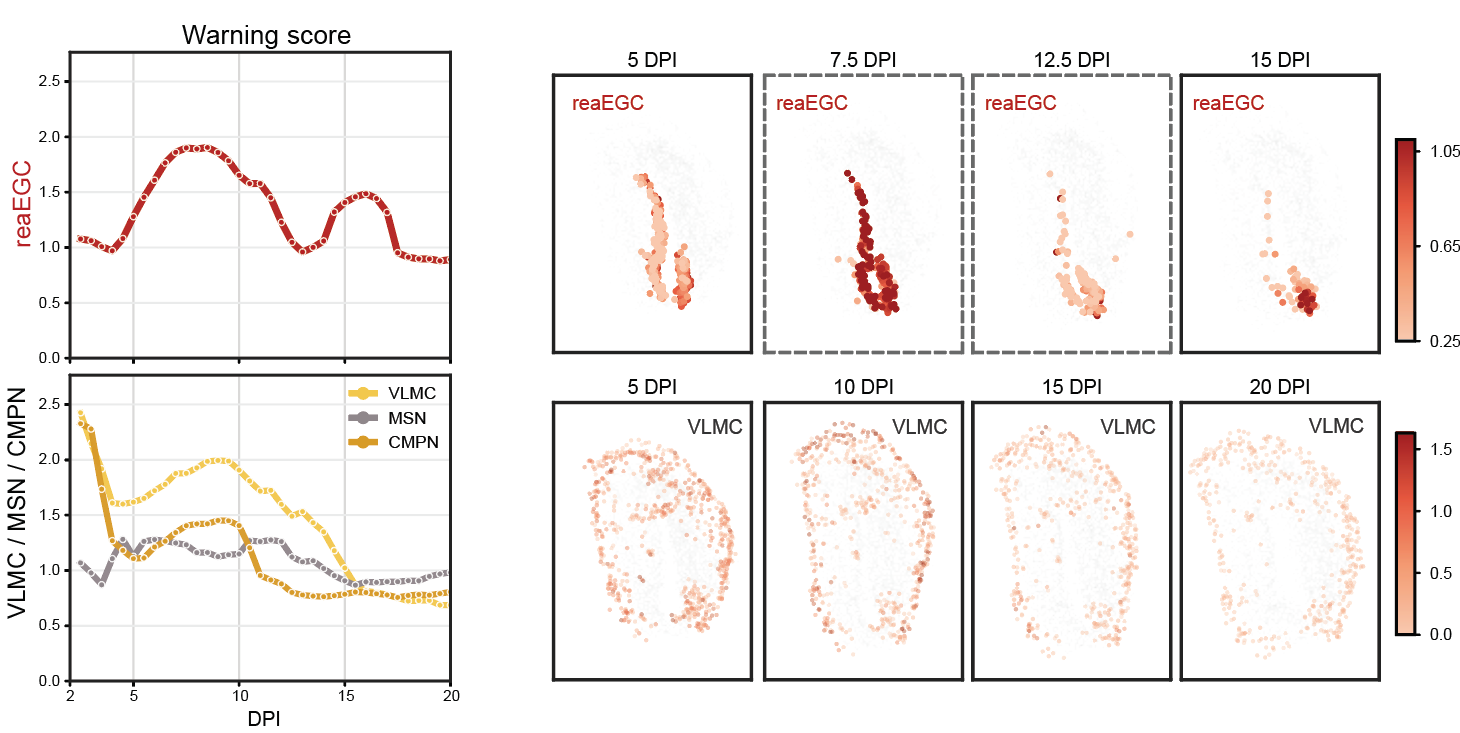
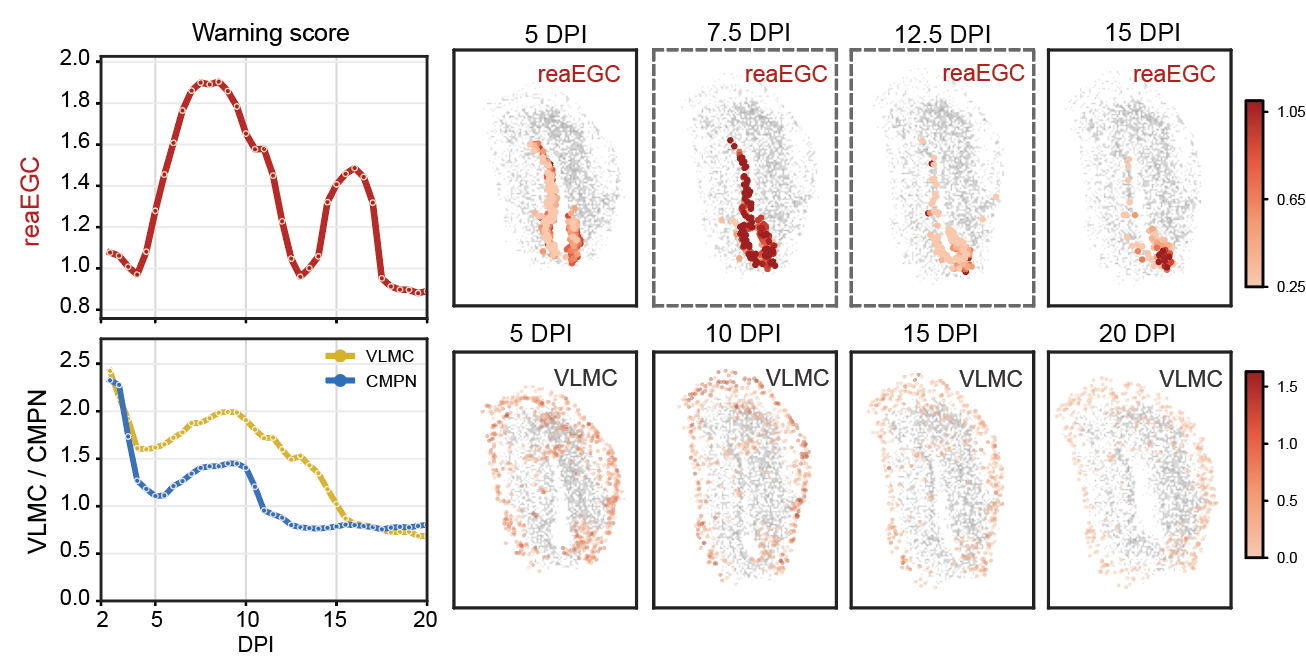
Update figure legends and figure 5 preview

Changed region(s): [[0.0, 0.0301, 1.0, 0.9925]]

diff --git a/figure-config.js b/figure-config.js
@@ -21,7 +21,7 @@ window.SpaPOT_FIGURES = {
     body:
       "The graphical abstract introduces the core problem, model structure, major outputs, and biological interpretation in a single opening visual.",
     legend:
-      "SpaPOT model overview. Staged spatial transcriptomic slices are represented by tissue coordinates, graph-informed gene-latent states and time labels. SpaPOT fits a spatial-potential transport model in which ds/dt describes spatial advection, dz/dt describes potential-driven latent-state motion and d log w/dt describes source-sink mass change. The same fitted fields are used to generate continuous reconstructions, inspect spatial velocity and growth, compute interval-level critical-window scores and perform model-derived in silico perturbation analysis.",
+      "SpaPOT graphical abstract and model overview. a, Discrete spatial transcriptomic snapshots are connected as a continuous tissue trajectory; observed slices and generated snapshots are separated in the schematic, and the dynamic paths highlight a candidate transition point. b, Training framework for SpaPOT: spatial coordinates, graph-prior gene embeddings and time labels feed the spatial-potential transport equation, which learns spatial velocity, gene-latent potential, growth or decay, and an optimization objective combining matching, spatial, physical and dynamic losses. c, Downstream analyses and applications, including generated spatial slices, lineage inference, critical-point warning, and perturbed gene-program interpretation.",
     preview: "assets/figure1_model.png",
     gif: "",
     pdf: "assets/pdfs/figure1.pdf",
@@ -40,7 +40,7 @@ window.SpaPOT_FIGURES = {
     body:
       "The simulation benchmark demonstrates whether the model can recover continuous trajectories, cell-type proportions, potential fields, and critical scores in a controlled system.",
     legend:
-      "Simulation validation of SpaPOT. a, Alignment control for the pitchfork benchmark. Artificially perturbed slices were generated by rigid rotations and translations and compared with the aligned coordinates used for dynamic reconstruction. b, Real/generated overlays and generated-only trajectories for the pitchfork fate-branching simulation, testing whether SpaPOT preserves branch separation during interpolation. c, Interval-level critical-window score and its two components: high-quantile stepwise potential change and adjacent spatial optimal transport. d, Potential, growth and spatial-velocity maps used to localise the fitted field around the sensitive interval. e, Soft-prior cell-type count recovery, assessing whether source-sink mass dynamics track changing composition. f, Spatial-velocity flow at representative intermediate times. g,h, Heart-to-duck simulation showing real/generated reconstruction, generated-only trajectories, observed fraction changes and critical-score curves. The pitchfork critical readout is interpreted by its rising edge around t=2.2-2.3, while the fold-bifurcation control shows a sharp onset phase at t=1.8-2.0, straddling the designed transition.",
+      "Simulation validation of SpaPOT. a, Alignment control for the pitchfork benchmark, showing unaligned and aligned synthetic slices. b, Real and generated pitchfork snapshots across synthetic time, with solid borders for observed anchors and dashed borders for generated intervals. c, Critical-score curve across the pitchfork simulation. d, Fitted potential curve and local change-of-potential maps at representative generated times. e, Observed and generated cell-count trajectories for progenitor and terminal fates. f, Spatial-speed maps and velocity arrows at representative intermediate times. g, Heart-to-duck generated trajectory snapshots. h, Heart-to-duck cell-type fractions across generated time. i, Stepwise potential action and spatial optimal-transport components used to interpret the synthetic transition.",
     preview: "assets/figure2_preview.png",
     gif: "assets/gifs/figure2_simulation.gif",
     frames: { base: "assets/frames/figure2/frame_", count: 41, delayMs: 220, start: 0, end: 4, step: 0.1 },
@@ -64,7 +64,7 @@ window.SpaPOT_FIGURES = {
     body:
       "Mouse dorsal midbrain is the main real-data case, linking spatial alignment, generated trajectories, potential landscapes, critical metrics, lineage shifts, and gene perturbation.",
     legend:
-      "SpaPOT reconstruction of mouse dorsal midbrain development. a, Alignment and two-dimensional reconstruction of staged dorsal midbrain slices. b, Three-dimensional space-time trajectory used to assess temporal continuity across E12.5, E14.5 and E16.5. c, Potential landscape and RGC/NeuB/GlioB state structure inferred from the fitted field. d, Critical-window metrics combining potential change and spatial optimal transport; the dorsal score used alpha=0.8, beta=0.2, delta=0.1 and a rolling window of nine time steps. The RGC-origin rising edge occurs at E12.9-E13.0, and the model-level propagation phase rises at E13.7-E13.8. e, RGC-origin fate allocation/alluvial summaries paired with these critical intervals. The E12.5-E13.0 interval shows the first RGC-origin branch-out to NeuB and GlioB, whereas the E13.5-E14.5 interval captures sustained propagation. These flows are model-inferred allocations, not experimental lineage tracing. f, Observed and predicted cell counts, used to check whether source-sink mass dynamics reproduce stage-level abundance. g, Marker and model-derived gene-potential readouts for RGC, NeuB and GlioB-associated states. h, Efna5 and Fzd3 in silico perturbation rollouts and dose-response summaries. i, Mechanistic schematic linking spatial advection, potential-gradient motion, growth and model-derived perturbation responses.",
+      "SpaPOT reconstruction of mouse dorsal midbrain development. a, Before- and after-alignment views of E12.5, E14.5 and E16.5 dorsal midbrain slices, with RGC, NeuB and GlioB annotations. b, Three-dimensional space-time trajectory combining observed slices and generated intermediate slices across embryonic time. c, Gene-latent potential landscape and state structure inferred from the fitted spatial-potential field. d, Critical-window metrics combining the SpaPOT score with the DNB score over embryonic time. e, Model-inferred RGC-origin fate allocation across staged time points, displayed as an alluvial flow summary. f, Observed and predicted cell-count summaries for RGC, NeuB and GlioB states. g, State-associated marker-gene heatmap supporting the RGC, NeuB and GlioB interpretation. h, Efna5 and Fzd3 in silico perturbation rollouts and dose-response summaries. i, Mechanistic pathway diagrams linking the selected perturbation genes with downstream GlioB and NeuB response routes.",
     preview: "assets/figure3_preview.png",
     gif: "assets/gifs/figure3_mouse_midbrain.gif",
     frames: { base: "assets/frames/figure3/frame_", count: 81, delayMs: 220, start: 12.5, end: 16.5, step: 0.05 },
@@ -88,7 +88,7 @@ window.SpaPOT_FIGURES = {
     body:
       "The zebrafish dataset is used to show time-point generation, branch criticality, lineage transition, and functional enrichment.",
     legend:
-      "Zebrafish developmental reconstruction. a, Observed and generated ZESTA embryo frames from 10 to 18 hpf, with real anchors and generated intervals distinguished by border style. b, Critical-score curves and raw score components for the fitted trajectory; branch-04 interpretation uses the rising edge at 12.375-12.625 hpf rather than only the late peak. c, Spatial descendant frames for a selected branch, showing how source-domain mass is propagated through generated and observed stages. d, Branch-lineage/alluvial summary from the 10 hpf source to later annotations, used to align the branch-04 critical rise with the 12-14 hpf Neural Rod transition. e, Branch-specific criticality readout for the terminal-fixed mesoderm branch, whose rising edge occurs at 17.375-17.625 hpf. f,g, Spatial frames and lineage summaries pairing this terminal rise with the 16-18 hpf axial/midline and blood/vascular diversification. h-j, Potential, growth, velocity and downstream programme summaries used to localise and annotate model-derived transitions. These branch flows are inferred allocations from staged data and are not experimental lineage tracing.",
+      "Zebrafish developmental reconstruction. a, Observed and generated ZESTA embryo frames from 10 to 18 hpf, with real anchors and generated intervals distinguished by border style. b, Critical-score and DNB-score curves for the fitted developmental trajectory. c, Spatial descendant frames for a selected 10 hpf source branch propagated through generated and observed stages. d, Branch-lineage alluvial summary linking the selected source branch to later neural and mesodermal annotations. e, Branch-specific criticality readout for a terminal-fate branch. f, Spatial frames for the terminal branch across generated and observed stages. g, Terminal-branch lineage alluvial summary connecting axial, notochord and blood or vascular outcomes. h, Spatial-speed vector field and state-specific speed distribution for major terminal groups. i, Row-scaled enrichment heatmap for branch-associated developmental programmes. j, GO-term summaries for candidate gene sets captured by the selected branch analyses.",
     preview: "assets/figure4_preview.png",
     gif: "assets/gifs/figure4_zebrafish.gif",
     frames: { base: "assets/frames/figure4/frame_", count: 81, delayMs: 220, start: 10, end: 18, step: 0.1 },
@@ -112,7 +112,7 @@ window.SpaPOT_FIGURES = {
     body:
       "The axolotl brain injury-response dataset is used to show spatial alignment, generated slices, critical scores, EGC-family gene programs, and potential-associated expression trends.",
     legend:
-      "Axolotl injury-associated reconstruction. a, Raw full ARTISTA slices before alignment, with the injured region highlighted. a', Aligned injured-region slices used for visualisation of the injury trajectory. b, Observed real-versus-reconstructed injury time points for the SpaPOT injured-region run. b', Fixed-source space-time trajectory from 2 to 20 DPI, used to assess whether reconstructed paths form a coherent injury-time surface. c, Step-delta Phi critical curves and EGC-associated local maps for reaEGC and wntEGC states. The global injury-response edge rises at 2.0-2.2 DPI in the dt=0.2 curve and at 2.0-2.5 DPI in the coarser supplementary readout, whereas the EGC-specific post-early rise occurs at 6.5-7.0 DPI. d, Model-inferred EGC mass changes paired with panel c: wntEGC expands between 5 and 10 DPI, matching the 6.5-7.0 DPI EGC rising edge, whereas reaEGC contracts between 15 and 20 DPI. e, wntEGC versus reaEGC differential-expression summary and EGC-family expression heatmap. f, Potential-ordered gene-expression programme across EGC states. g, Decoder validation comparing observed and decoded gene-expression structure. h, EGC cell-cell communication summary across injury time points.",
+      "Axolotl brain injury-response reconstruction. a, ARTISTA slices before and after alignment for injured axolotl brain, preserving the 2, 5, 10, 15 and 20 DPI injury stages. b, Observed real slices and generated slices across the injury-response trajectory, with cell-type colors and border styles separating real and generated time points. c, Warning-score curves for reaEGC and VLMC/CMPN-associated responses over DPI. d, Spatial maps of reaEGC and VLMC score changes at selected DPI, localizing the periods highlighted by panel c. e, Cell-count trajectories for EGC, proliferative and vascular-associated states across injury time. f, Differential-expression volcano plot comparing reaEGC and wntEGC. g, Marker-gene dot plot summarizing cell-type identity and expression programs across the selected states. h, Potential-ordered gene-expression curves for selected EGC/EX-associated genes.",
     preview: "assets/figure5_preview.png",
     gif: "assets/gifs/figure5_axolotl.gif",
     frames: { base: "assets/frames/figure5/frame_", count: 181, delayMs: 220, start: 2, end: 20, step: 0.1 },
@@ -136,7 +136,7 @@ window.SpaPOT_FIGURES = {
     body:
       "The model comparison summarizes how SpaPOT differs from other methods in prediction, alignment, temporal interpolation, and biological interpretability across datasets.",
     legend:
-      "Method-scope comparison for SpaPOT. Rows summarise modelling capabilities relevant to staged spatial transcriptomic dynamics, and columns summarise representative spatial alignment, spatial pseudotime, optimal-transport, reconstruction and perturbation-oriented methods. The table distinguishes cross-slice alignment or integration, spatial pseudotime/trajectory inference, continuous generative spatial reconstruction, model-inferred fate allocation, joint spatial-expression dynamics, source-sink abundance dynamics, separable spatial/gene-potential/growth fields, critical-window detection and spatially resolved gene-perturbation readouts. This figure is a scope map rather than a quantitative benchmark; it defines the method space in which the preceding Results sections evaluate SpaPOT.",
+      "Model comparison across datasets and methods. a, Capability matrix comparing SpaPOT with representative spatial alignment, spatial pseudotime, optimal-transport, reconstruction and perturbation-oriented methods across alignment, generative reconstruction, future-state inference, fate inference, mass dynamics, in silico perturbation and critical-window detection tasks. b, Qualitative reconstruction comparison on mouse dorsal midbrain and zebrafish stages, contrasting observed slices with outputs from baseline methods and SpaPOT. c, Quantitative comparison of state-level L1, spatial IoU and spatial Chamfer metrics, summarizing state composition, spatial overlap and geometry quality across benchmark settings.",
     preview: "assets/figure6_preview.png",
     gif: "",
     pdf: "assets/pdfs/figure6.pdf",

diff --git a/index.html b/index.html
@@ -97,12 +97,11 @@
             <img src="assets/figure1_model.png" alt="Figure 1 SpaPOT spatial-potential model overview" />
             <figcaption>
               <details class="figure-caption">
-                <summary>Figure 1: SpaPOT spatial-potential model for spatial cell-state dynamics</summary>
+                <summary>SpaPOT spatial-potential model for spatial cell-state dynamics</summary>
                 <div class="caption-body">
-                  <p><strong>(1) Graph-prior input.</strong> SpaPOT starts from spatial coordinates, expression states and graph-prior GAT latent representations, so the model input keeps both tissue geometry and gene-network structure.</p>
-                  <p><strong>(2) Fitted spatial-potential field.</strong> The fitted field separates spatial velocity from gene-latent potential-gradient dynamics: spatial motion is modeled as a vector field, while gene-state movement follows a potential landscape.</p>
-                  <p><strong>(3) Physics-informed loss.</strong> Optimal transport matching, GAT reconstruction, mass dynamics and physics residual terms jointly regularize interpolation between observed slices.</p>
-                  <p><strong>(4) Critical biology output.</strong> The output is not only reconstructed intermediate slices; the model also ranks low-gradient, high-action states as candidate critical windows and perturbation-sensitive regions.</p>
+                  <p><strong>a, Dynamic spatial transcriptomics.</strong> Observed slices, generated snapshots and continuous trajectories summarize the biological transition problem.</p>
+                  <p><strong>b, Training SpaPOT.</strong> Spatial coordinates, graph-prior gene embeddings and time labels feed the spatial-potential transport equation and its matching, spatial, physical and dynamic losses.</p>
+                  <p><strong>c, Downstream readouts.</strong> The fitted fields support spatial slice generation, lineage inference, critical-point warning and perturbed gene-program interpretation.</p>
                 </div>
               </details>
             </figcaption>
@@ -337,7 +336,7 @@
       </section>
     </main>
 
-    <script src="figure-config.js?v=20260624a"></script>
+    <script src="figure-config.js?v=20260624b"></script>
     <script src="motion-stats.js?v=20260621b"></script>
     <script src="script.js?v=20260622h"></script>
   </body>